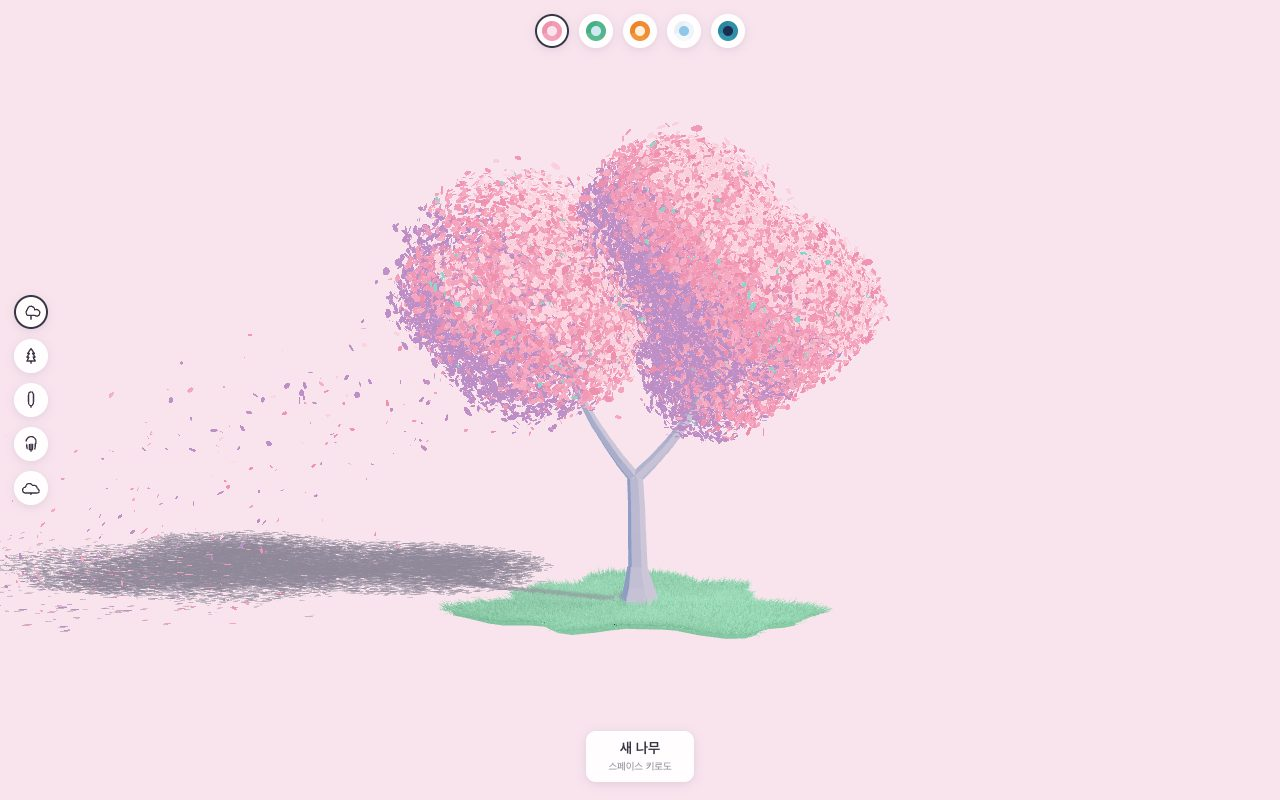
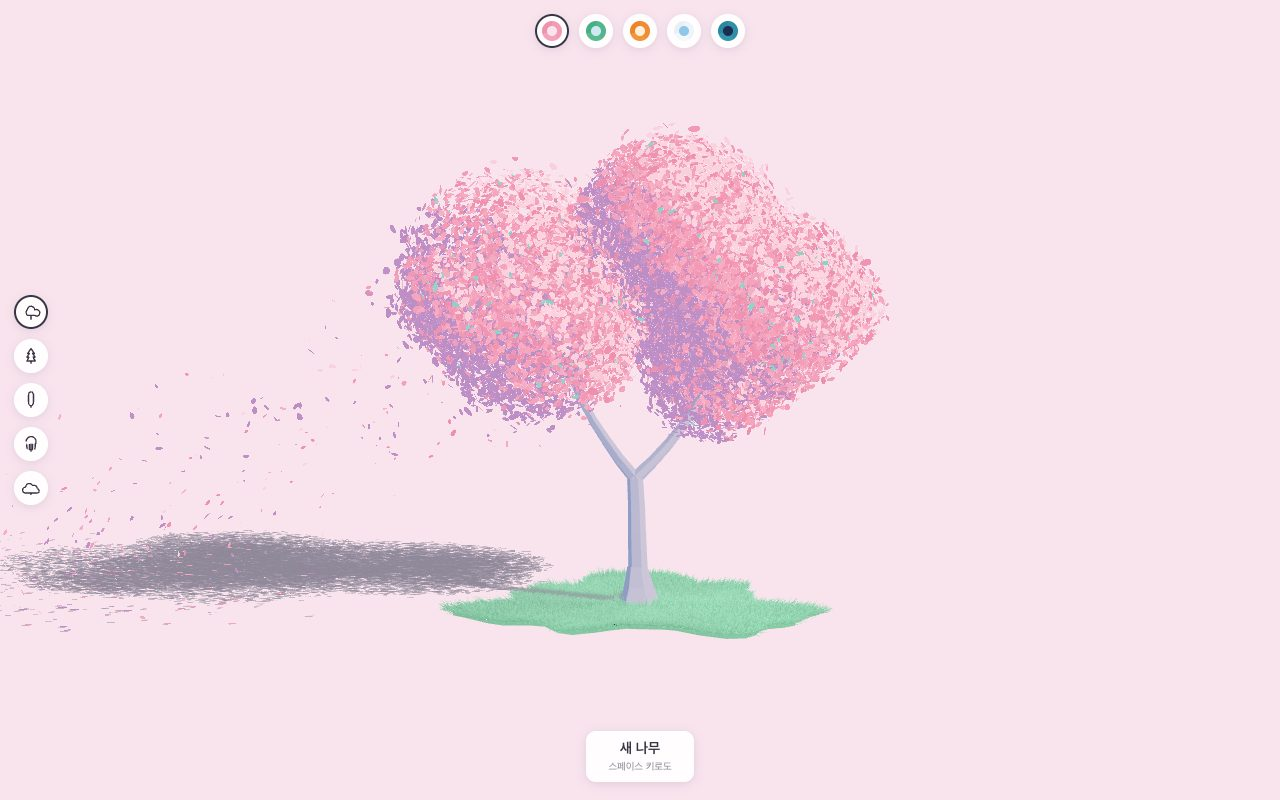
Season Tree v0.3.3: new thumbnail and version

Changed region(s): [[0.2812, 0.1562, 0.6875, 0.5625], [0.0, 0.6562, 0.125, 0.75], [0.1875, 0.5, 0.25, 0.5312]]

diff --git a/MAP.md b/MAP.md
@@ -268,7 +268,7 @@ npm version patch   # minor / major 도 됨
 
 | 작업물 | 저장소 | 배포 방식 | 카드 표시 |
 |---|---|---|---|
-| 계절나무 | tomlim2/season-tree | `v*` 태그 → Actions | `v0.3.2` |
+| 계절나무 | tomlim2/season-tree | `v*` 태그 → Actions | `v0.3.3` |
 | 구름바다 | tomlim2/cloud-sea | `v*` 태그 → Actions | `v0.1.1` |
 | 빛우물 | tomlim2/light-well | `v*` 태그 → Actions | `v0.4.0` |
 | 오늘의 디스크 | tomlim2/cd-case | `v*` 태그 → Actions | `v0.2.0` |
